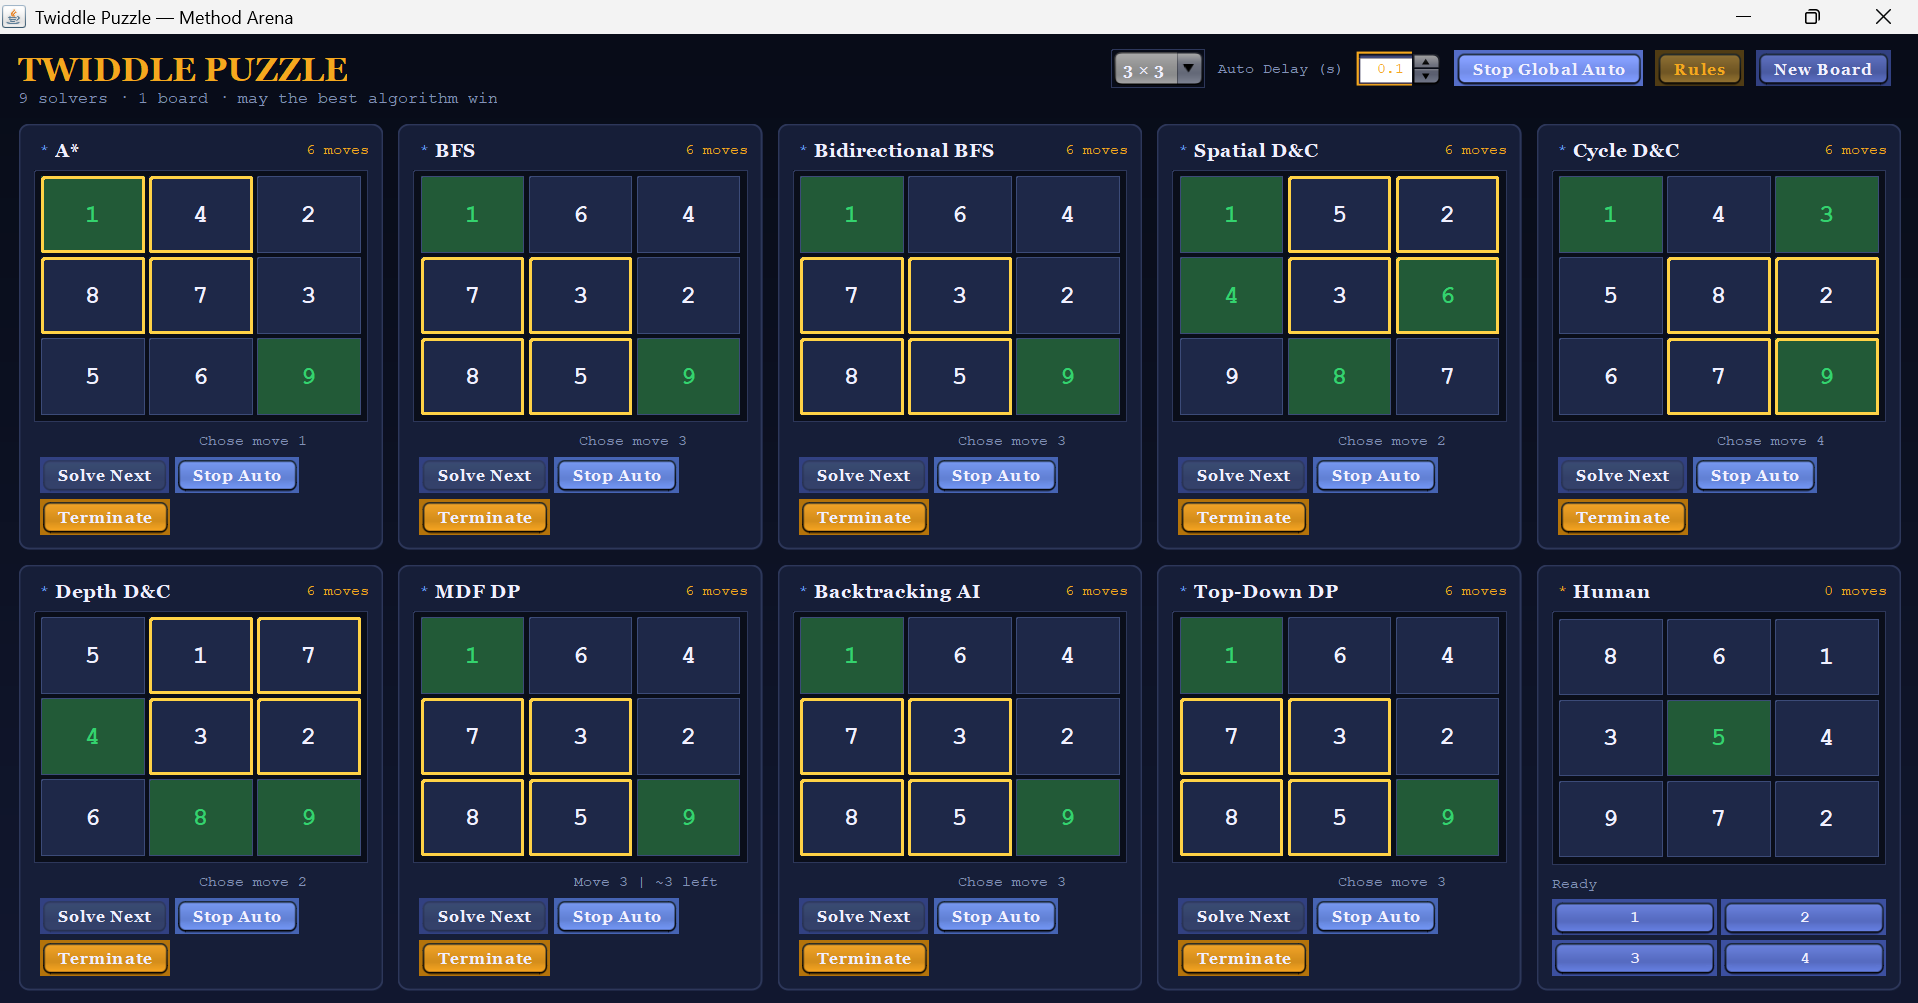
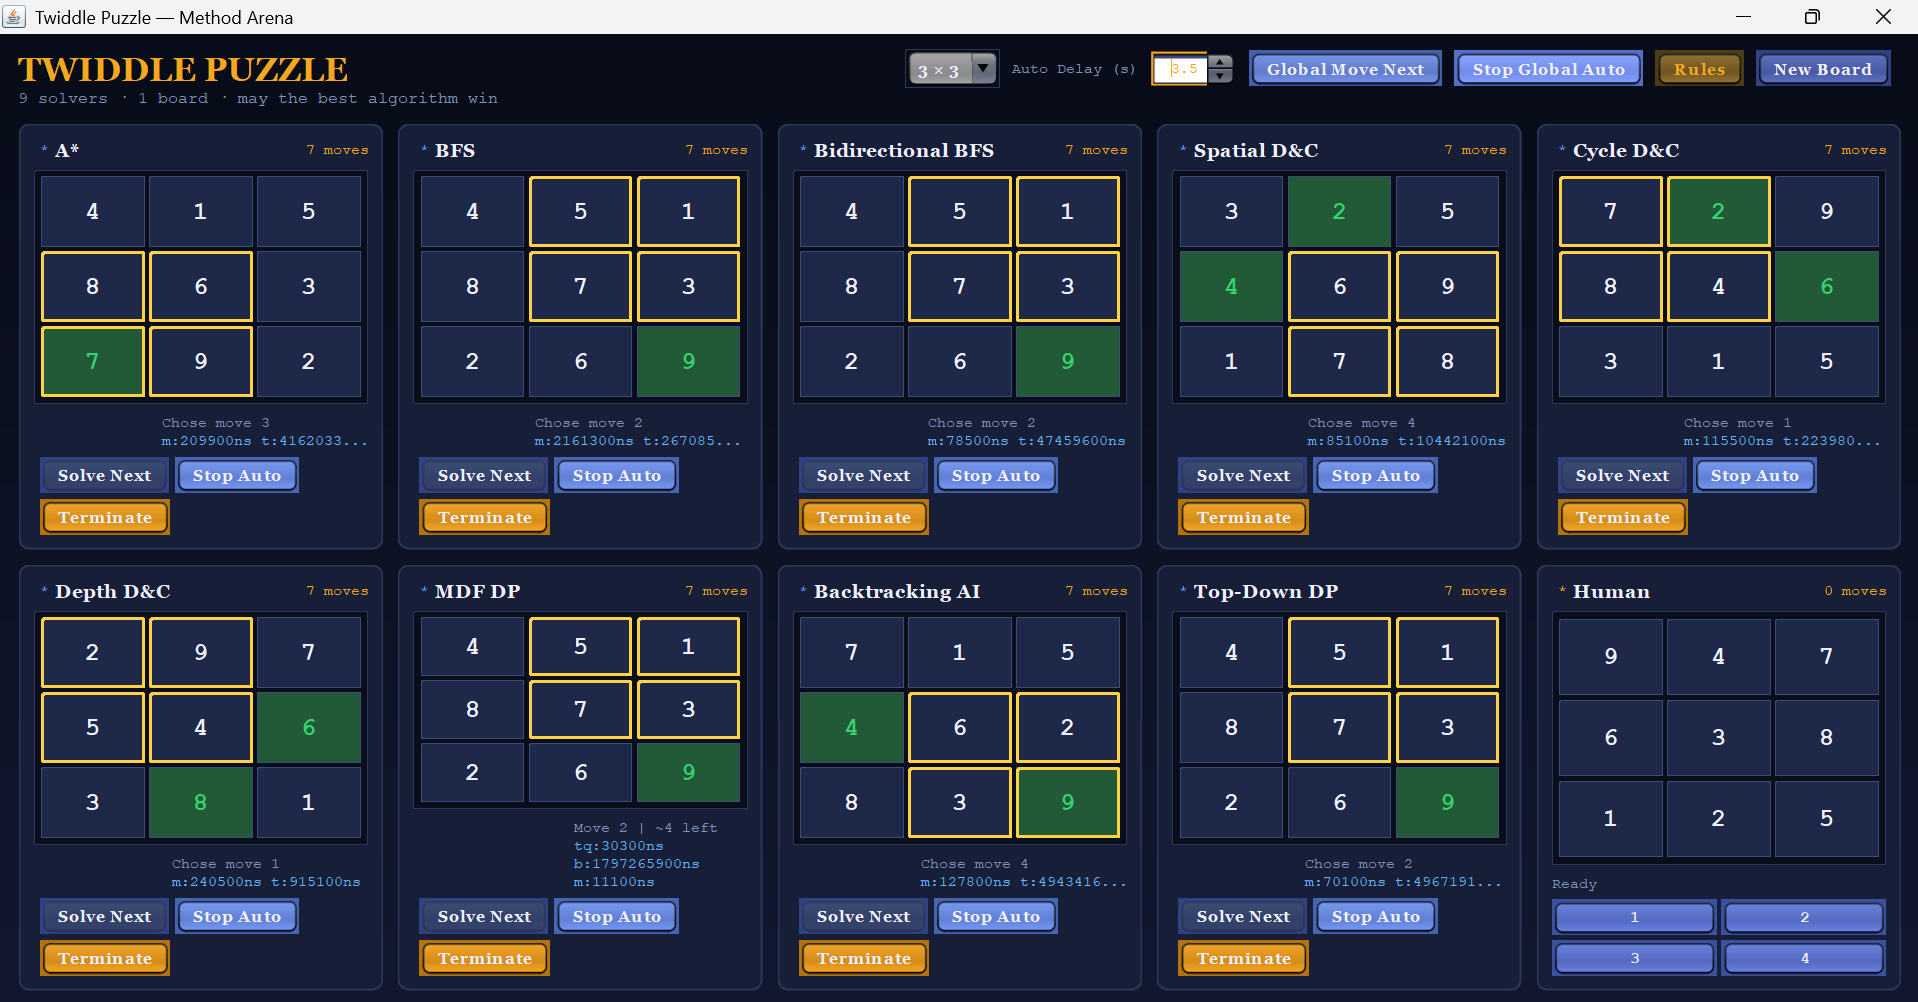
Added global move next in gui

diff --git a/src/gui/TwiddleGUI.java b/src/gui/TwiddleGUI.java
@@ -44,6 +44,7 @@ public class TwiddleGUI extends JFrame {
     private JComboBox<String> sizeBox;
     private JSpinner globalDelaySpinner;
     private JButton globalAutoPlayButton;
+    private JButton globalMoveNextButton;
     private JPanel methodsContainer;
     private final List<MethodPanel> methodPanels = new ArrayList<>();
 
@@ -96,6 +97,7 @@ public class TwiddleGUI extends JFrame {
 
         JButton rulesBtn = makeBtn("Rules",     new Color(80, 60, 20), ACCENT);
         JButton resetBtn = makeBtn("New Board", BTN_COMPUTER,          TEXT_BRIGHT);
+        globalMoveNextButton = makeBtn("Global Move Next", new Color(70, 95, 170), TEXT_BRIGHT);
         globalAutoPlayButton = makeBtn("Global Auto Play", new Color(85, 110, 200), TEXT_BRIGHT);
 
         JLabel delayLabel = new JLabel("Auto Delay (s)");
@@ -110,11 +112,13 @@ public class TwiddleGUI extends JFrame {
             stopGlobalAutoPlay();
             rebuildBoards();
         });
+        globalMoveNextButton.addActionListener(e -> runGlobalNextMove());
         globalAutoPlayButton.addActionListener(e -> toggleGlobalAutoPlay());
 
         controls.add(sizeBox);
         controls.add(delayLabel);
         controls.add(globalDelaySpinner);
+        controls.add(globalMoveNextButton);
         controls.add(globalAutoPlayButton);
         controls.add(rulesBtn);
         controls.add(resetBtn);
@@ -295,6 +299,15 @@ public class TwiddleGUI extends JFrame {
     private void updateGlobalAutoPlayButton() {
         if (globalAutoPlayButton == null) return;
         globalAutoPlayButton.setText(isAnyComputerAutoPlaying() ? "Stop Global Auto" : "Global Auto Play");
+    }
+
+    private void runGlobalNextMove() {
+        stopGlobalAutoPlay();
+        for (MethodPanel panel : methodPanels) {
+            if (panel.isComputerPanel() && !panel.isSolvedBoard()) {
+                panel.runComputerMove();
+            }
+        }
     }
 
     private class MethodPanel {
